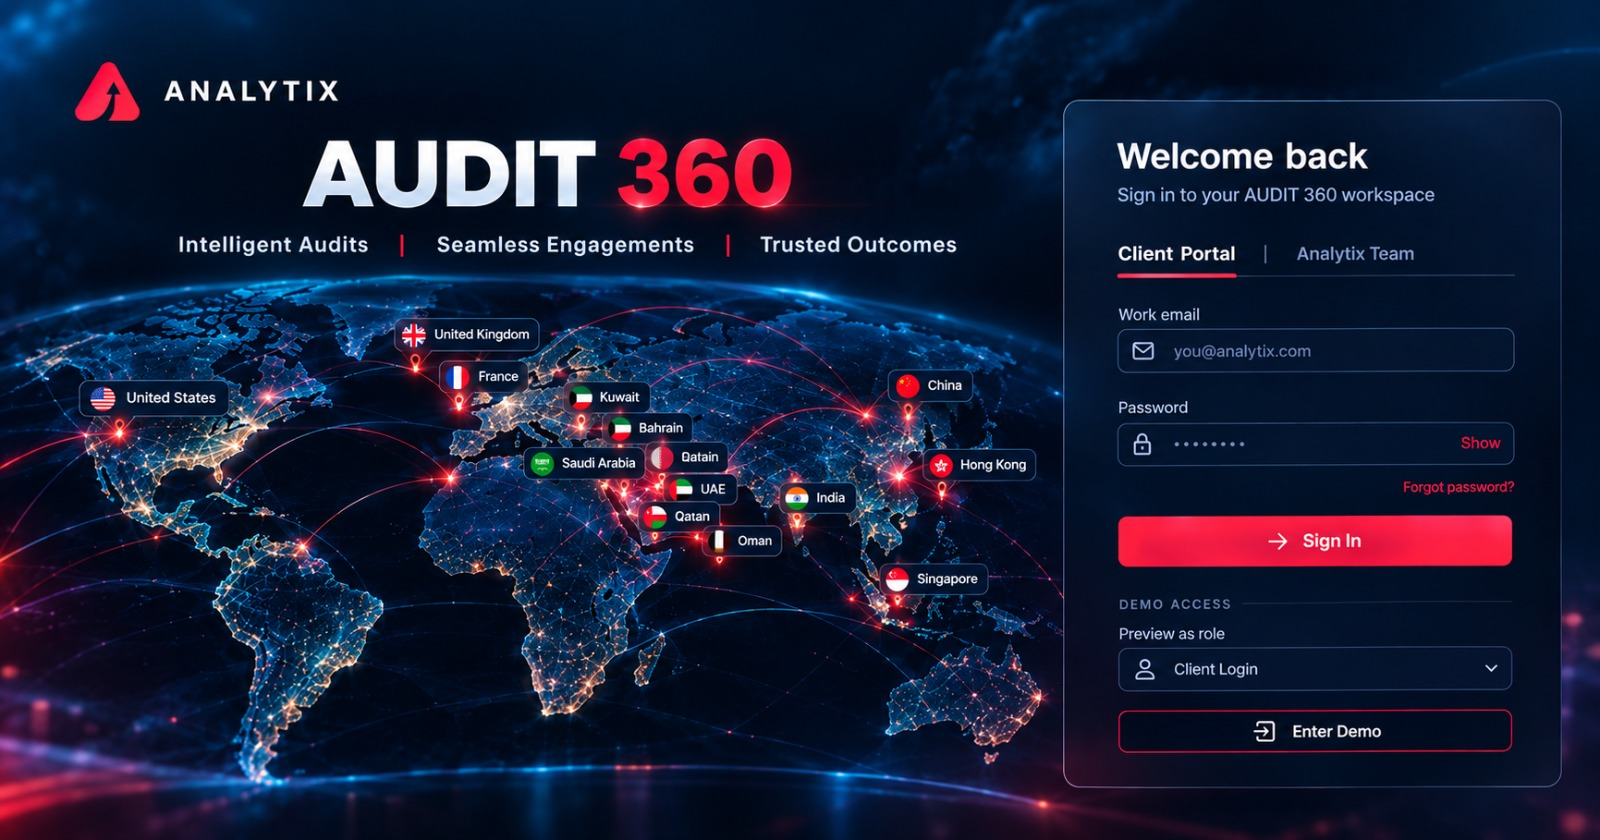
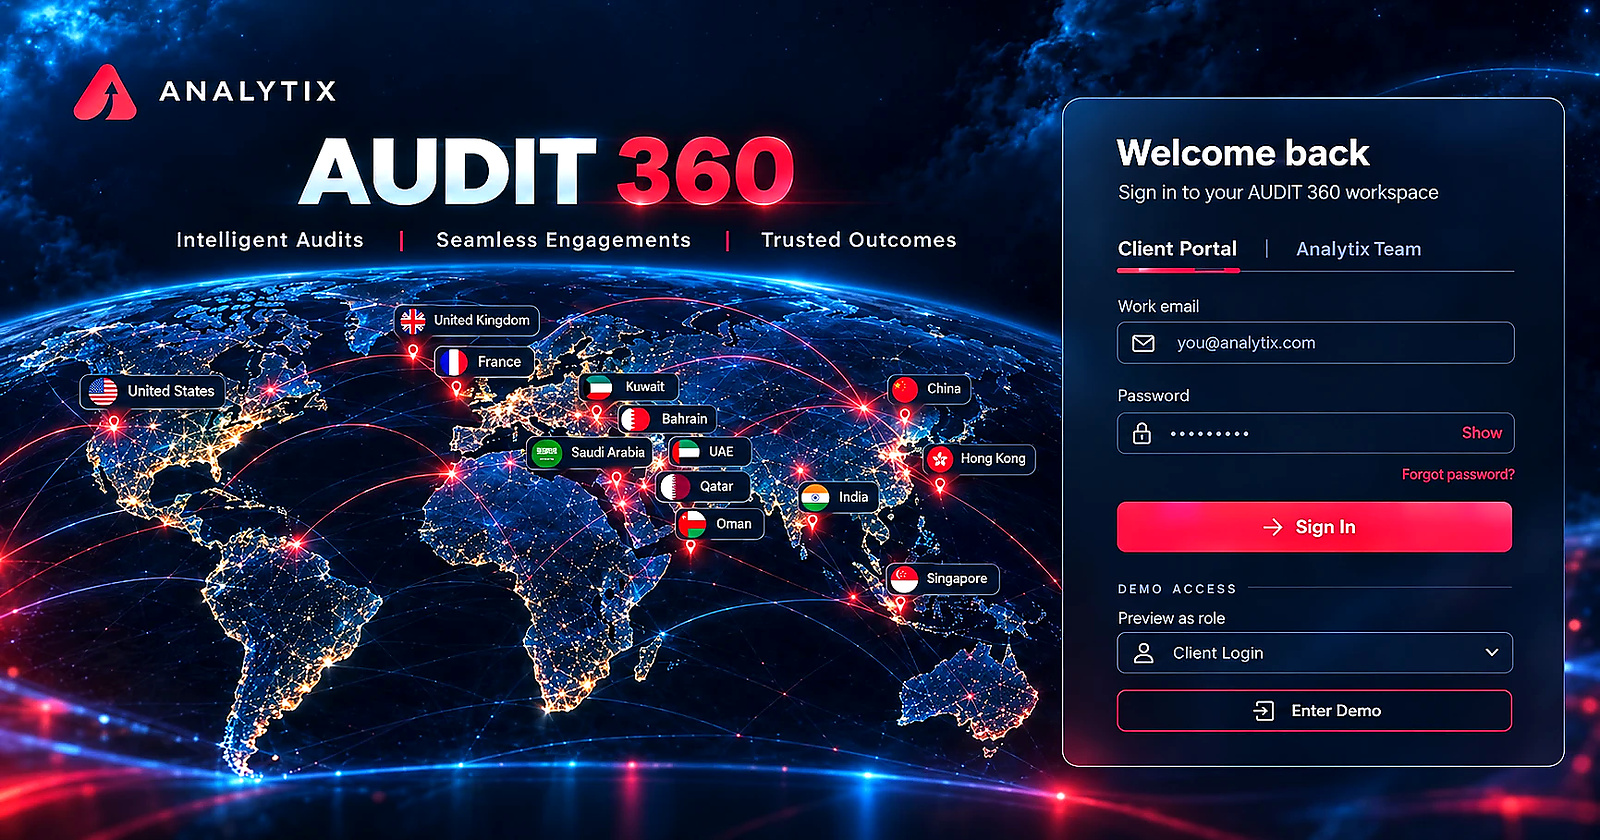
Replace login background with corrected image, recalibrate controls
- Replace public/login-bg.jpg with updated image (correct Qatar label,
  cleaner card design) enhanced via Lanczos resize to 1600×840 with
  sharpening, contrast and saturation boost for monitor clarity
- Remove Qatar HTML correction overlay (no longer needed — new JPEG
  has correct labels baked in)
- Recalibrate all transparent control overlays to match new card
  layout (card now spans left: 58.6% → 97.3%):
  tabs, email, password, show/hide, forgot, sign-in, role select,
  enter demo, and error message position all updated

Claude-Session: https://claude.ai/code/session_01GGc8ZLXBu4aA3q37paJcXM

diff --git a/src/pages/auth/Login.jsx b/src/pages/auth/Login.jsx
@@ -250,36 +250,6 @@ export default function Login() {
             }}
           />
 
-          {/* ── Country label corrections — cover wrong JPEG labels ── */}
-          {/* "Qatain" → "Qatar" (single correct label, no emoji flag) */}
-          <div style={{
-            position: 'absolute',
-            left: '39.63%', top: '51.43%',
-            width: '9.12%', height: '4.76%',
-            background: 'rgba(8, 16, 42, 0.96)',
-            borderRadius: 24,
-            display: 'flex',
-            alignItems: 'center',
-            justifyContent: 'center',
-            gap: 5,
-            pointerEvents: 'none',
-            zIndex: 2,
-          }}>
-            {/* Qatar flag: maroon + white serrated stripe */}
-            <svg width="18" height="12" viewBox="0 0 18 12" style={{ flexShrink: 0, borderRadius: 2, overflow: 'hidden' }}>
-              <rect width="18" height="12" fill="#8D1B3D"/>
-              <path d="M0 0 L5 2 L0 4 L5 6 L0 8 L5 10 L0 12 L0 0Z" fill="white"/>
-            </svg>
-            <span style={{
-              fontSize: 'clamp(7px, 0.72vw, 11px)',
-              fontWeight: 700,
-              color: '#dce8f4',
-              fontFamily: '-apple-system, BlinkMacSystemFont, system-ui, sans-serif',
-              letterSpacing: '0.02em',
-              whiteSpace: 'nowrap',
-            }}>Qatar</span>
-          </div>
-
 
           {/* ── LIVE AUDIT NETWORK status indicator ── */}
           <div style={{
@@ -335,10 +305,10 @@ export default function Login() {
               title="Client Portal"
               style={{
                 position: 'absolute',
-                left: '69.85%', top: '28.25%',
-                width: '9.2%', height: '5.3%',
+                left: '58.75%', top: '26.79%',
+                width: '11.25%', height: '4.17%',
                 background: 'transparent',
-                border: accountType === 'client' ? '1px solid rgba(120,170,230,0.25)' : '1px solid transparent',
+                border: 'none',
                 cursor: 'pointer',
                 borderRadius: 4,
                 outline: 'none',
@@ -354,10 +324,10 @@ export default function Login() {
               title="Analytix Team"
               style={{
                 position: 'absolute',
-                left: '80.1%', top: '28.25%',
-                width: '9.2%', height: '5.3%',
+                left: '73.44%', top: '26.79%',
+                width: '13.13%', height: '4.17%',
                 background: 'transparent',
-                border: accountType === 'team' ? '1px solid rgba(120,170,230,0.25)' : '1px solid transparent',
+                border: 'none',
                 cursor: 'pointer',
                 borderRadius: 4,
                 outline: 'none',
@@ -375,22 +345,22 @@ export default function Login() {
               aria-label="Work email"
               style={{
                 position: 'absolute',
-                left: '69.875%', top: '39.05%',
-                width: '24.75%', height: '5.12%',
-                padding: '0 16px 0 58px',
+                left: '58.63%', top: '36.43%',
+                width: '38.63%', height: '5.0%',
+                padding: '0 16px 0 48px',
                 background: 'transparent',
                 border: '1px solid transparent',
                 outline: 'none',
                 color: '#dbe7f7',
-                fontSize: 'clamp(10px, 1.05vw, 15px)',
+                fontSize: 'clamp(10px, 1.1vw, 15px)',
                 fontFamily: '-apple-system, BlinkMacSystemFont, system-ui, sans-serif',
                 caretColor: 'rgba(140, 200, 255, 0.9)',
                 transition: 'border-color 0.18s, background 0.18s',
                 boxSizing: 'border-box',
               }}
               onFocus={e => {
-                e.target.style.borderColor = 'rgba(120, 170, 230, 0.45)'
-                e.target.style.background = 'rgba(7, 24, 48, 0.12)'
+                e.target.style.borderColor = 'rgba(120, 170, 230, 0.35)'
+                e.target.style.background = 'rgba(7, 24, 48, 0.10)'
               }}
               onBlur={e => {
                 e.target.style.borderColor = 'transparent'
@@ -409,23 +379,23 @@ export default function Login() {
               aria-label="Password"
               style={{
                 position: 'absolute',
-                left: '69.875%', top: '50.35%',
-                width: '24.75%', height: '5.12%',
-                padding: '0 70px 0 58px',
+                left: '58.63%', top: '45.60%',
+                width: '38.63%', height: '5.0%',
+                padding: '0 65px 0 48px',
                 letterSpacing: showPassword ? 'normal' : '2px',
                 background: 'transparent',
                 border: '1px solid transparent',
                 outline: 'none',
                 color: '#dbe7f7',
-                fontSize: 'clamp(10px, 1.05vw, 15px)',
+                fontSize: 'clamp(10px, 1.1vw, 15px)',
                 fontFamily: '-apple-system, BlinkMacSystemFont, system-ui, sans-serif',
                 caretColor: 'rgba(140, 200, 255, 0.9)',
                 transition: 'border-color 0.18s, background 0.18s',
                 boxSizing: 'border-box',
               }}
               onFocus={e => {
-                e.target.style.borderColor = 'rgba(120, 170, 230, 0.45)'
-                e.target.style.background = 'rgba(7, 24, 48, 0.12)'
+                e.target.style.borderColor = 'rgba(120, 170, 230, 0.35)'
+                e.target.style.background = 'rgba(7, 24, 48, 0.10)'
               }}
               onBlur={e => {
                 e.target.style.borderColor = 'transparent'
@@ -440,8 +410,8 @@ export default function Login() {
               aria-label={showPassword ? 'Hide password' : 'Show password'}
               style={{
                 position: 'absolute',
-                left: '90.0%', top: '50.35%',
-                width: '4.6%', height: '5.12%',
+                left: '93.13%', top: '46.43%',
+                width: '4.06%', height: '3.81%',
                 background: 'transparent',
                 border: 'none',
                 cursor: 'pointer',
@@ -455,8 +425,8 @@ export default function Login() {
               aria-label="Forgot password"
               style={{
                 position: 'absolute',
-                left: '86.2%', top: '56.5%',
-                width: '8.4%', height: '3.0%',
+                left: '84.06%', top: '51.90%',
+                width: '13.19%', height: '2.38%',
                 display: 'block',
                 cursor: 'pointer',
                 textDecoration: 'none',
@@ -470,13 +440,13 @@ export default function Login() {
               aria-label="Sign in"
               style={{
                 position: 'absolute',
-                left: '69.85%', top: '61.55%',
-                width: '24.75%', height: '5.95%',
+                left: '58.63%', top: '55.36%',
+                width: '38.63%', height: '7.14%',
                 background: 'transparent',
                 border: 'none',
                 cursor: 'pointer',
                 outline: 'none',
-                borderRadius: 4,
+                borderRadius: 6,
               }}
             />
 
@@ -488,8 +458,8 @@ export default function Login() {
               aria-label="Preview as role"
               style={{
                 position: 'absolute',
-                left: '69.85%', top: '77.15%',
-                width: '24.75%', height: '5.15%',
+                left: '58.63%', top: '69.88%',
+                width: '38.63%', height: '5.36%',
                 padding: '0 45px 0 55px',
                 background: 'transparent',
                 border: '1px solid transparent',
@@ -522,11 +492,11 @@ export default function Login() {
             {demoRole !== DEMO_ROLES[0].value && (
               <div style={{
                 position: 'absolute',
-                left: '69.85%', top: '77.15%',
-                width: '24.75%', height: '5.15%',
+                left: '58.63%', top: '69.88%',
+                width: '38.63%', height: '5.36%',
                 display: 'flex',
                 alignItems: 'center',
-                paddingLeft: '55px',
+                paddingLeft: '48px',
                 pointerEvents: 'none',
                 boxSizing: 'border-box',
               }}>
@@ -555,13 +525,13 @@ export default function Login() {
               aria-label="Enter demo"
               style={{
                 position: 'absolute',
-                left: '69.85%', top: '84.45%',
-                width: '24.75%', height: '5.15%',
+                left: '58.63%', top: '77.14%',
+                width: '38.63%', height: '5.24%',
                 background: 'transparent',
                 border: 'none',
                 cursor: 'pointer',
                 outline: 'none',
-                borderRadius: 4,
+                borderRadius: 6,
               }}
             />
           </div>
@@ -572,9 +542,9 @@ export default function Login() {
               role="alert"
               style={{
                 position: 'absolute',
-                left: '69.875%',
-                top: '68%',
-                width: '24.75%',
+                left: '58.63%',
+                top: '63.5%',
+                width: '38.63%',
                 background: 'rgba(160, 20, 30, 0.88)',
                 border: '1px solid rgba(255, 100, 110, 0.4)',
                 borderRadius: 4,
